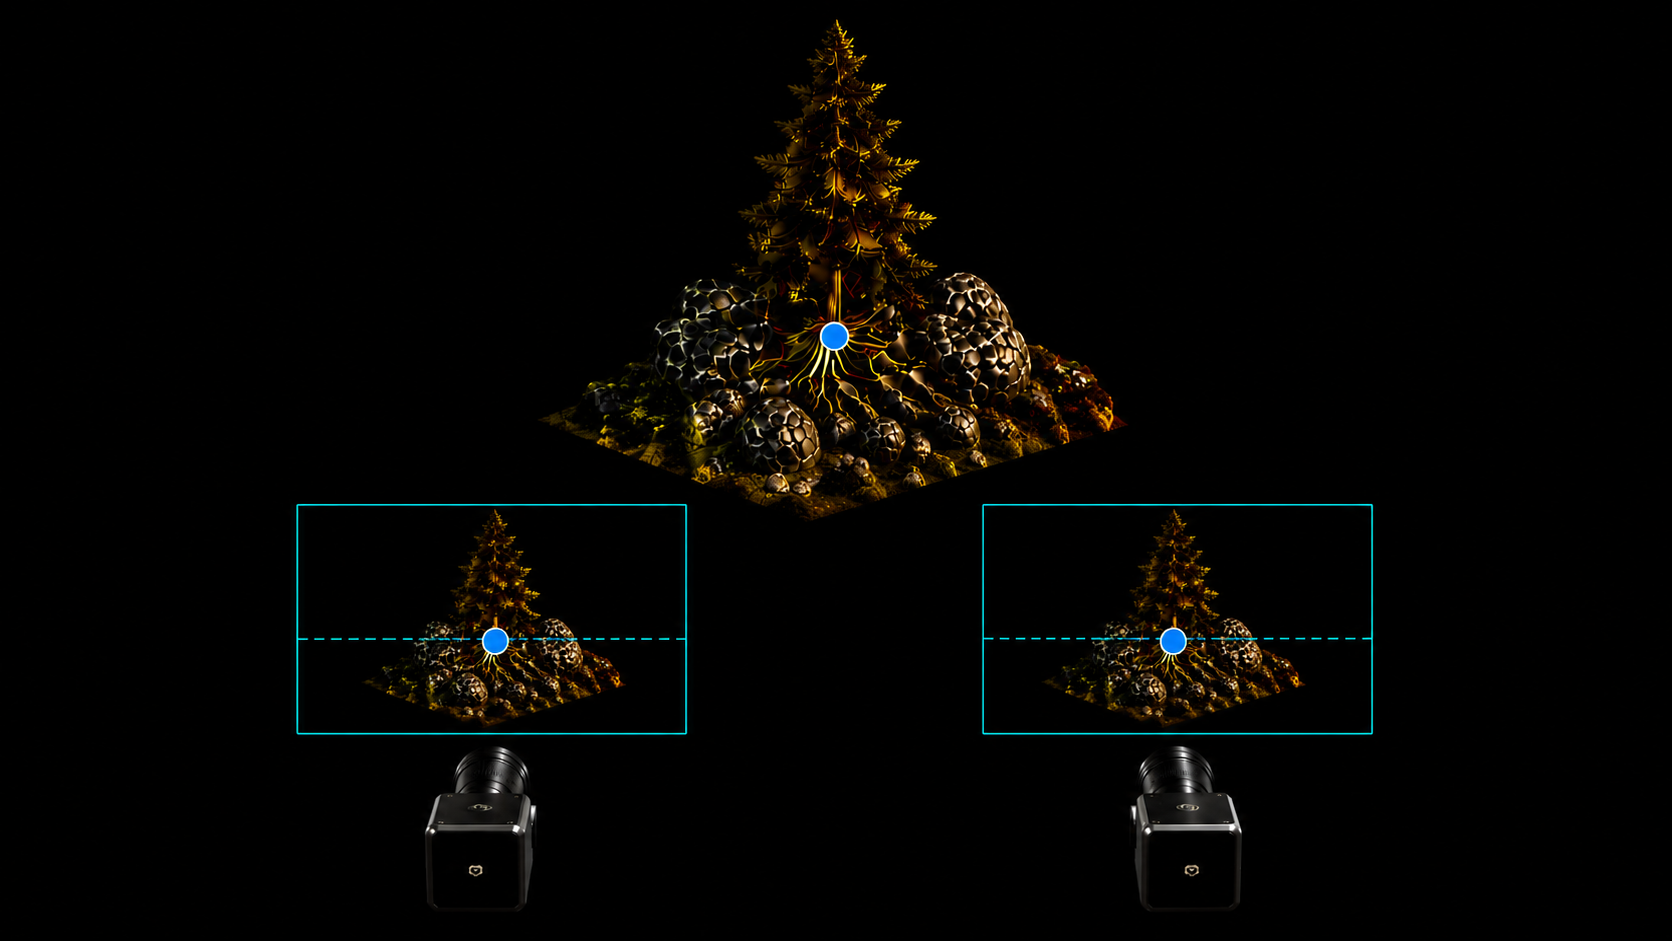
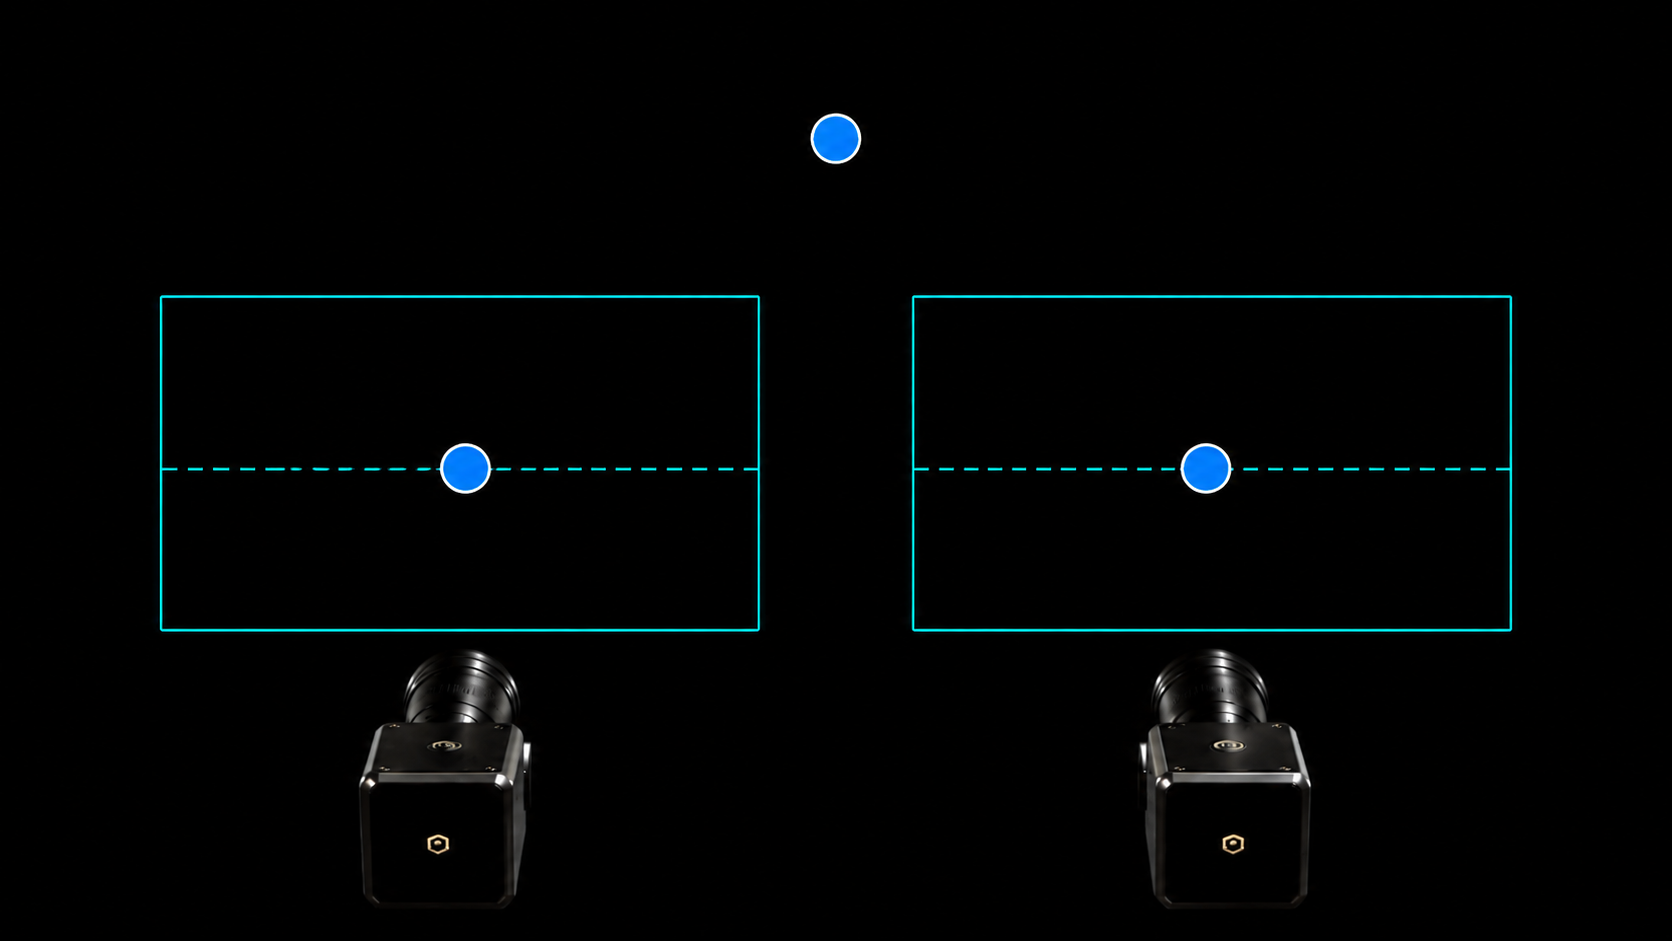
Tighten mobile cards and update stereo teaser

diff --git a/app/globals.css b/app/globals.css
@@ -447,6 +447,14 @@ footer {
   }
 }
 
+@media (max-width: 900px) and (orientation: landscape) {
+  .instructor-card {
+    grid-template-columns: auto max-content;
+    width: max-content;
+    max-width: 100%;
+  }
+}
+
 @media (max-width: 720px) {
   .visualization-grid {
     grid-template-columns: 1fr;
@@ -493,7 +501,7 @@ footer {
   }
 
   .visualization-card {
-    grid-template-rows: auto 210px;
+    grid-template-rows: auto 168px;
     border-radius: 20px;
   }
 

diff --git a/docs/styles.css b/docs/styles.css
@@ -445,6 +445,14 @@ footer {
   }
 }
 
+@media (max-width: 900px) and (orientation: landscape) {
+  .instructor-card {
+    grid-template-columns: auto max-content;
+    width: max-content;
+    max-width: 100%;
+  }
+}
+
 @media (max-width: 720px) {
   .visualization-grid {
     grid-template-columns: 1fr;
@@ -491,7 +499,7 @@ footer {
   }
 
   .visualization-card {
-    grid-template-rows: auto 210px;
+    grid-template-rows: auto 168px;
     border-radius: 20px;
   }
 

diff --git a/app/page.tsx b/app/page.tsx
@@ -102,7 +102,7 @@ const visualizations: Visualization[] = [
   },
 ];
 
-const TEASER_ASSET_VERSION = "20260825-parallel-stereo-final";
+const TEASER_ASSET_VERSION = "20260826-mobile-spacing-parallel-stereo";
 
 export default function Home() {
   const [theme, setTheme] = useState<Theme>("dark");

diff --git a/context.md b/context.md
@@ -1,6 +1,6 @@
 # Kosta's Visualizations — Current State
 
-Updated: 2026-08-25
+Updated: 2026-08-26
 
 ## Production
 
@@ -26,7 +26,7 @@ Updated: 2026-08-25
 
 - Perspective Projection: use the new photoreal scene with tree/rocks, opaque pinhole plane, one ray, and inverted image-plane projection. The incident ray remains visible from the world point to the pinhole; only the outgoing portion directly behind the opaque plane is subdued, and full cyan resumes exactly at the projected plane boundary before continuing to the image point.
 - Sphere to Cubemap and Sphere to Equirectangular Projection: use the outpainted compositions with black background at every raster edge and modest breathing room around the complete globe and mapping diagram. Preserve every legitimate cyan latitude/longitude arc and every cyan cubemap/ERP segment outline. Remove the orange/coral vertical meridian and all associated glow from both representations.
-- Parallel Stereo: use the user-supplied final raster `codex-clipboard-0e483603-2620-413f-b22a-191a02cb7226.png` for both dark and light teaser assets.
+- Parallel Stereo: use the user-supplied 2026-08-26 raster `codex-clipboard-6e65b9e5-d880-4fba-82dc-8fe4fee21686.png`, normalized to the shared 1672×625 canvas for both dark and light teaser assets.
 - Stereo Rectification uses the user-supplied final raster `codex-clipboard-f95718d9-d220-469a-b67a-32e735d792ae.png` for both dark and light teaser assets. Epipolar Geometry, Local Minimum, and Parallel Stereo use outpainted compositions with black background at every raster edge and breathing room around all cameras, points, surfaces, paths, and image planes.
 - Partial Derivatives: use the new simplified saddle, one vertical slice plane, true intersection curve, and tangent line. Do not use the older two-plane image.
 - Planar Homography: no correspondence lines. Use the exact author portrait from the hero card on the wall plane. The right portrait must be the direct deterministic projective warp of the exact selected left quadrilateral—not a fresh crop or regenerated portrait—with all four uniquely colored corner pairs and the same shoulder features touching the corresponding bottom corners.
@@ -38,6 +38,8 @@ Updated: 2026-08-25
 - Partial Derivatives uses the vertically outpainted accepted framing with additional top/bottom breathing room.
 - Correlation title: `Correlation (aka "Convolution")` and multiplication symbol `*` in the teaser. The active sliding 3×3 kernel over the input must use the same white-center/gray-cross/dark-corner weights as the displayed kernel immediately to the right of `*`.
 - Author card: compact approximately 600px-wide card with no excess blank area on the right.
+- Mobile card copy regions use a compact shared height with no excessive dead space below the descriptions.
+- In mobile landscape, the author card shrink-wraps its portrait, copy, and link controls so no unused panel area remains on the right.
 
 ## Typography and page content
 
